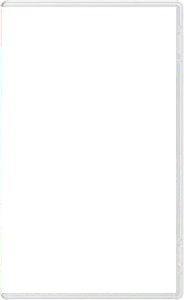
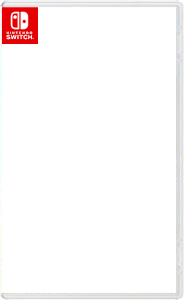
multi consoles

Changed region(s): [[0.0, 0.0, 0.2174, 0.15]]

diff --git a/admin/index.html b/admin/index.html
@@ -44,7 +44,7 @@ input.list-search:focus{border-color:var(--accent);}
 .item-name{font-size:13px;font-weight:500;white-space:nowrap;overflow:hidden;text-overflow:ellipsis;}
 .item-sub{font-size:11px;color:var(--muted);margin-top:1px;display:flex;gap:5px;align-items:center;}
 .console-dot{width:6px;height:6px;border-radius:50%;flex-shrink:0;}
-.cd-PS4,.cd-PS5{background:var(--ps);}.cd-Switch{background:var(--sw);}.cd-XBOX{background:var(--xb);}
+.cd-PS4,.cd-PS5{background:var(--ps);}.cd-Switch,.cd-Switch-2{background:var(--sw);}.cd-XBOX,.cd-XBOX-Series,.cd-XBOX-One{background:var(--xb);}
 .item-installed{width:8px;height:8px;border-radius:50%;background:var(--ok);flex-shrink:0;margin-left:auto;box-shadow:0 0 0 2px rgba(22,163,74,.2);}
 /* Resize handle */
 .resize-handle{width:4px;background:transparent;cursor:col-resize;flex-shrink:0;transition:background .15s;position:relative;z-index:10;}
@@ -194,7 +194,9 @@ input.list-search:focus{border-color:var(--accent);}
         <button class="pill" data-c="PS5"><span class="dot" style="background:var(--ps)"></span>PS5</button>
         <button class="pill" data-c="PS4"><span class="dot" style="background:var(--ps)"></span>PS4</button>
         <button class="pill" data-c="Switch"><span class="dot" style="background:var(--sw)"></span>Switch</button>
-        <button class="pill" data-c="XBOX"><span class="dot" style="background:var(--xb)"></span>XBOX</button>
+        <button class="pill" data-c="Switch 2"><span class="dot" style="background:var(--sw)"></span>Switch 2</button>
+        <button class="pill" data-c="XBOX Series"><span class="dot" style="background:var(--xb)"></span>XBOX Series</button>
+        <button class="pill" data-c="XBOX One"><span class="dot" style="background:var(--xb)"></span>XBOX One</button>
       </div>
       <div class="genre-dropdown">
         <button class="genre-btn" id="genre-btn-admin" onclick="toggleGenrePanelAdmin(event)">Genres</button>
@@ -437,22 +439,22 @@ function getCoverSrc(g) {
 
 
 function catalogueSort(a, b) {
-  var cg = {PS5:0, PS4:0, Switch:1, XBOX:2};
-  var ga = cg[a.console] ?? 9, gb = cg[b.console] ?? 9;
-  if (ga !== gb) return ga - gb;
-  var mg = function(g) {
-    if (g.media === 'game pass') return 2;
-    if (g.media === 'démat')     return 1;
-    return 0;
+  var cg = function(c) {
+    if (c==='PS5'||c==='PS4')                    return 0;
+    if (c==='Switch'||c==='Switch 2')             return 1;
+    if (c==='XBOX Series'||c==='XBOX One')        return 2;
+    return 9;
   };
-  var ma = mg(a), mb = mg(b);
-  if (ma !== mb) return ma - mb;
-  if (ma === 0) {
-    var na = parseInt(a.num_id) || 9999;
-    var nb = parseInt(b.num_id) || 9999;
+  var ga = cg(a.console), gb = cg(b.console);
+  if (ga !== gb) return ga - gb;
+  var phys = function(g){ return g.media==='disque'||g.media==='cartouche'; };
+  var pa = phys(a)?0:1, pb = phys(b)?0:1;
+  if (pa !== pb) return pa - pb;
+  if (pa === 0) {
+    var na = parseInt(a.num_id)||9999, nb = parseInt(b.num_id)||9999;
     return na - nb;
   }
-  return (a.name || '').localeCompare(b.name || '', 'fr');
+  return (a.name||'').localeCompare(b.name||'','fr');
 }
 
 function norm(s) {
@@ -522,9 +524,22 @@ function updateCoverPreview() {
 document.getElementById("console-pills").addEventListener("click", function(e) {
   var p = e.target.closest(".pill");
   if (!p) return;
-  document.querySelectorAll("#console-pills .pill").forEach(function(x){ x.classList.remove("active"); });
-  p.classList.add("active");
-  activeConsole = p.dataset.c;
+  var c = p.dataset.c;
+  if (c === "ALL") {
+    activeConsoles = new Set(["ALL"]);
+    document.querySelectorAll("#console-pills .pill").forEach(function(x){ x.classList.remove("active"); });
+    p.classList.add("active");
+  } else {
+    activeConsoles.delete("ALL");
+    document.querySelector("#console-pills [data-c='ALL']").classList.remove("active");
+    p.classList.toggle("active");
+    if (p.classList.contains("active")) activeConsoles.add(c);
+    else activeConsoles.delete(c);
+    if (activeConsoles.size === 0) {
+      activeConsoles.add("ALL");
+      document.querySelector("#console-pills [data-c='ALL']").classList.add("active");
+    }
+  }
   renderList();
 });
 
@@ -533,7 +548,7 @@ function renderList() {
   var onlyInstalled = document.getElementById("filter-installed") && document.getElementById("filter-installed").checked;
   var genreF_list = Array.from(document.querySelectorAll("#genre-panel-admin .genre-cb:checked")).map(function(c){return c.dataset.genre;});
   var list = GAMES.filter(function(g) {
-    if (activeConsole !== "ALL" && g.console !== activeConsole) return false;
+    if (!activeConsoles.has("ALL") && !activeConsoles.has(g.console)) return false;
     if (onlyInstalled && !g.installed) return false;
     if (genreF_list.length && !genreF_list.some(function(s){return (g.genre||"").toLowerCase().indexOf(s)!==-1;})) return false;
     if (q.length > 1) return norm(g.name).indexOf(q) !== -1 || norm(g.search||"").indexOf(q) !== -1;
@@ -553,7 +568,7 @@ function renderList() {
     html += "<div class=\"list-item" + sel + "\" onclick=\"selectGame(" + g.id + ")\">"
           + "<div class=\"item-cover\">" + coverImg + "</div>"
           + "<div class=\"item-info\">"
-            + "<div class=\"item-name\">" + g.name + "</div>"
+            + "<div class=\"item-name\">" + g.name + (g.media==='démat'||g.media==='game pass'?' 👻':'') + "</div>"
             + "<div class=\"item-sub\"><span class=\"console-dot cd-" + g.console + "\"></span><span>" + g.console + "</span>" + numBadge + (g.media ? "<span>&middot; " + g.media + "</span>" : "") + "</div>"
           + "</div>" + instDot + "</div>";
   });

diff --git a/index.html b/index.html
@@ -158,6 +158,8 @@
     letter-spacing: .03em;
   }
   .badge-PS4, .badge-PS5 { background: var(--ps); }
+  .badge-Switch-2 { background: var(--sw); }
+  .badge-XBOX-Series, .badge-XBOX-One { background: var(--xb); }
   .badge-Switch { background: var(--sw); }
   .badge-XBOX { background: var(--xb); }
   .badge-installed {
@@ -390,7 +392,9 @@
     <button class="pill" data-console="PS5"><span class="dot" style="background:var(--ps)"></span>PS5</button>
     <button class="pill" data-console="PS4"><span class="dot" style="background:var(--ps)"></span>PS4</button>
     <button class="pill" data-console="Switch"><span class="dot" style="background:var(--sw)"></span>Switch</button>
-    <button class="pill" data-console="XBOX"><span class="dot" style="background:var(--xb)"></span>XBOX</button>
+    <button class="pill" data-console="Switch 2"><span class="dot" style="background:var(--sw)"></span>Switch 2</button>
+    <button class="pill" data-console="XBOX Series"><span class="dot" style="background:var(--xb)"></span>XBOX Series</button>
+    <button class="pill" data-console="XBOX One"><span class="dot" style="background:var(--xb)"></span>XBOX One</button>
   </div>
   <div class="sep"></div>
   <select id="sort-sel">
@@ -464,7 +468,7 @@ function getCoverSrc(g) {
 }
 
 let GAMES = [];
-let activeConsole = 'ALL';
+var activeConsoles = new Set(['ALL']);
 let sortMode = 'id';
 let searchStr = '';
 let debounceTimer;
@@ -495,36 +499,30 @@ GAMES = [{"id":1,"console":"PS5","name":"Returnal","search":"returnal","num_id":
 // ── Render ──
 
 function catalogueSort(a, b) {
-  // Groupe console : PS4+PS5=0, Switch=1, XBOX=2
-  var cg = {PS5:0, PS4:0, Switch:1, XBOX:2};
-  var ga = cg[a.console] ?? 9, gb = cg[b.console] ?? 9;
-  if (ga !== gb) return ga - gb;
-
-  // Sous-groupe média : disque/cartouche=0, démat=1, game pass=2
-  var mg = function(g) {
-    if (g.media === 'game pass') return 2;
-    if (g.media === 'démat')     return 1;
-    return 0;
+  var cg = function(c) {
+    if (c==='PS5'||c==='PS4')                    return 0;
+    if (c==='Switch'||c==='Switch 2')             return 1;
+    if (c==='XBOX Series'||c==='XBOX One')        return 2;
+    return 9;
   };
-  var ma = mg(a), mb = mg(b);
-  if (ma !== mb) return ma - mb;
-
-  // Dans physique : tri par numéro (num_id) — ignorer 👻
-  if (ma === 0) {
-    var na = parseInt(a.num_id) || 9999;
-    var nb = parseInt(b.num_id) || 9999;
+  var ga = cg(a.console), gb = cg(b.console);
+  if (ga !== gb) return ga - gb;
+  var phys = function(g){ return g.media==='disque'||g.media==='cartouche'; };
+  var pa = phys(a)?0:1, pb = phys(b)?0:1;
+  if (pa !== pb) return pa - pb;
+  if (pa === 0) {
+    var na = parseInt(a.num_id)||9999, nb = parseInt(b.num_id)||9999;
     return na - nb;
   }
-  // Dans démat / game pass : tri alphabétique
-  return (a.name || '').localeCompare(b.name || '', 'fr');
+  return (a.name||'').localeCompare(b.name||'','fr');
 }
 
 function render() {
   let list = [...GAMES];
 
   // Filter console
-  if (activeConsole !== 'ALL') {
-    list = list.filter(g => g.console === activeConsole);
+  if (!activeConsoles.has('ALL')) {
+    list = list.filter(g => activeConsoles.has(g.console));
   }
 
   // Filter search
@@ -573,7 +571,7 @@ function render() {
         ${installed}
       </div>
       <div class="card-info">
-        <div class="card-name">${g.name}</div>
+        <div class="card-name">${g.name}${g.media==='démat'||g.media==='game pass'?' 👻':''}</div>
         <div class="card-meta">
           ${g.pegi ? `<span class="pegi-badge">${g.pegi}+</span>` : ''}
           ${g.genre || ''}
@@ -587,9 +585,22 @@ function render() {
 document.getElementById('console-filters').addEventListener('click', e => {
   const pill = e.target.closest('.pill');
   if (!pill) return;
-  document.querySelectorAll('.pill').forEach(p => p.classList.remove('active'));
-  pill.classList.add('active');
-  activeConsole = pill.dataset.console;
+  const c = pill.dataset.console;
+  if (c === 'ALL') {
+    activeConsoles = new Set(['ALL']);
+    document.querySelectorAll('#console-filters .pill').forEach(p => p.classList.remove('active'));
+    pill.classList.add('active');
+  } else {
+    activeConsoles.delete('ALL');
+    document.getElementById('console-filters').querySelector('[data-console="ALL"]').classList.remove('active');
+    pill.classList.toggle('active');
+    if (pill.classList.contains('active')) activeConsoles.add(c);
+    else activeConsoles.delete(c);
+    if (activeConsoles.size === 0) {
+      activeConsoles.add('ALL');
+      document.getElementById('console-filters').querySelector('[data-console="ALL"]').classList.add('active');
+    }
+  }
   render();
 });
 
